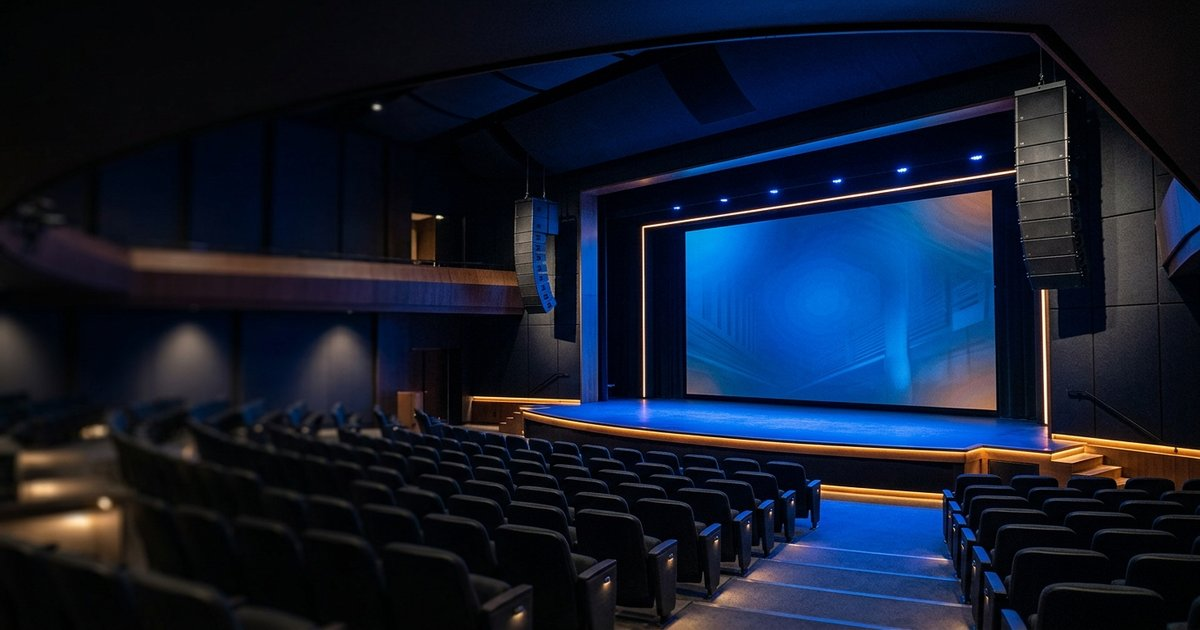
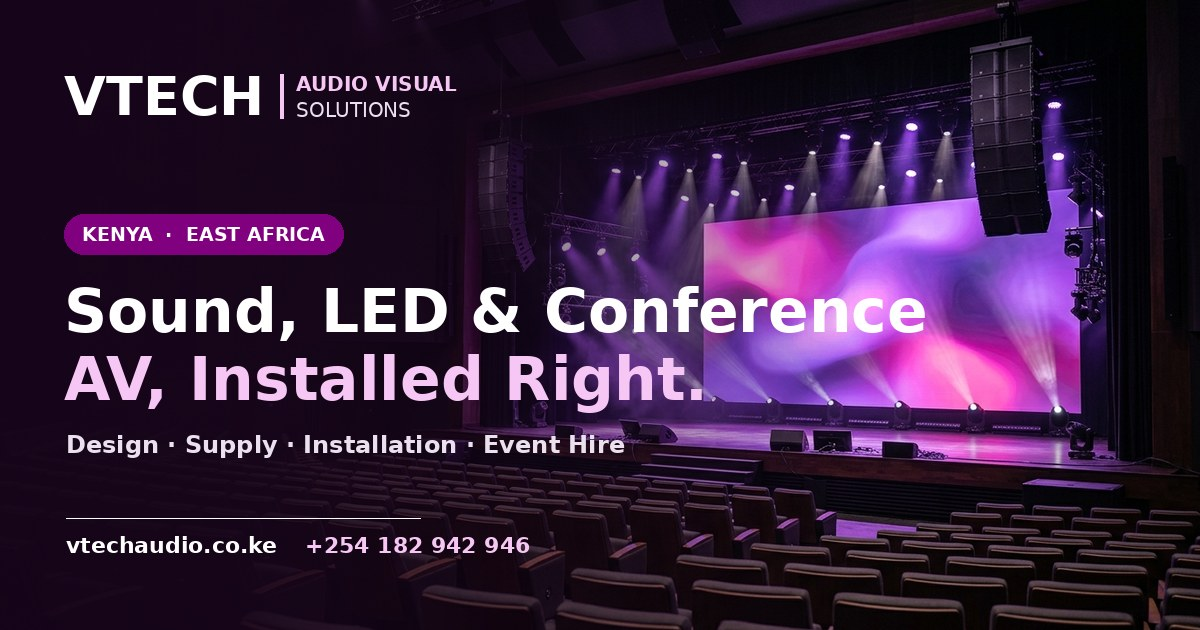
v5.55.0: Site-wide QA fixes, new mobile bottom bar, floating WhatsApp, new social share image
QA fixes (from the live desktop walkthrough)
- Desktop header: logo no longer collides with the menu and the phone block no longer covers "Contact". Menu centres between logo and actions; "Call or WhatsApp" block only from 1440px; tighter spacing 901-1279px; CTA button hidden 901-1060px.
- Services archive was cut off at 10 items, hiding Professional Sound Systems. Services, Industries and Hire Packages archives now list every item (Projects up to 60).
- Projects filter chips showed raw slugs ("conference-centres"); now readable labels ("Conference Centres").
- Footer blurb: removes stray space before commas ("acoustics , installed").

Mobile
- Bottom bar is now Home / Services / Call / Get a quote (current page highlighted); WhatsApp removed from the bar.
- WhatsApp is a round floating button on the right, above the bar; floating call button hidden on phones (Call is in the bar).

Social sharing
- New 1200x630 share image (assets/img/og-default.jpg + .webp): stage with LED wall and line arrays, VTECH wordmark, "Sound, LED & Conference AV, Installed Right.", services line, website and phone.

Bump theme to 5.55.0 (build v5.55-2026-10-13). PHP lint clean; app.js unchanged; CSS braces balanced.

diff --git a/vtech-av/assets/css/main.css b/vtech-av/assets/css/main.css
@@ -1253,3 +1253,30 @@ body.nav-open .action-bar,body.nav-open .float-btn{display:none}
 @media(max-width:820px){.eh-guide,.blog-card--lead{grid-template-columns:1fr;gap:1.25rem}.eh-guide--flip .eh-guide__media{order:0}.blog-card--lead .blog-card__media{min-height:220px}.blog-card--lead .blog-card__body{padding:1.4rem}}
 @media(max-width:600px){.eh-cats__grid,.blog-grid{grid-template-columns:1fr}.eh-hero,.faq-hero{padding:1.75rem 0 2.75rem}.eh-hero .svx-hero__cta .btn{flex:1 1 100%;text-align:center;justify-content:center}.faq-chips{flex-wrap:nowrap;overflow-x:auto;justify-content:flex-start;margin-inline:-1rem;padding:0 1rem .3rem;scrollbar-width:none}.faq-chips .hp-picker__btn{white-space:nowrap;flex:none}.eh-band__box{padding:1.5rem}.eh-band__box .btn{width:100%;justify-content:center}}
 @media(prefers-reduced-motion:reduce){.eh-cat,.eh-cat__media img,.blog-card,.blog-card__media img{transition:none}}
+
+/* v5.55.0 QA fixes: desktop header spacing, mobile bottom bar + floating WhatsApp */
+@media(min-width:901px){
+  .site-header__inner{display:flex;align-items:center;justify-content:space-between;gap:1.5rem}
+  .site-header__brand{flex:0 0 auto;margin-right:.5rem}
+  .site-nav{flex:1 1 auto;min-width:0;display:flex;justify-content:center}
+  .site-nav__menu{flex-wrap:nowrap;justify-content:center}
+  .site-header__actions{flex:0 0 auto;display:flex;align-items:center}
+  .header-call{display:none}
+}
+@media(min-width:1440px){.header-call{display:inline-flex}}
+@media(min-width:901px) and (max-width:1279px){
+  .site-header__inner{gap:.9rem}
+  .site-nav__menu>li>a{padding:.45rem .5rem;font-size:.84rem}
+  .site-header__brand img,.site-header__brand .custom-logo{height:38px;max-width:150px}
+  .site-header__actions .btn{padding:.55rem .95rem;font-size:.82rem;min-height:42px}
+}
+@media(min-width:901px) and (max-width:1060px){.site-header__actions .btn{display:none}}
+@media(max-width:768px){
+  .action-bar{grid-template-columns:repeat(4,1fr);grid-auto-flow:row}
+  .action-bar__btn.is-current{color:var(--c-primary);background:var(--c-primary-tint)}
+  .float-btn--call{display:none}
+  .float-btn.float-btn--wa{display:inline-flex;right:.9rem;bottom:calc(5.1rem + env(safe-area-inset-bottom));width:54px;height:54px;padding:0;justify-content:center;border-radius:50%;box-shadow:0 10px 26px rgba(18,140,74,.45);z-index:160}
+  .float-btn.float-btn--wa span{display:none}
+  .float-btn.float-btn--wa svg{width:28px;height:28px}
+  body.nav-open .float-btn.float-btn--wa{display:none}
+}

diff --git a/vtech-av/style.css b/vtech-av/style.css
@@ -4,7 +4,7 @@ Theme URI: https://vtechaudio.co.ke/
 Author: Pimofy Digital
 Author URI: https://pimofydigital.com/
 Description: Premium custom WordPress theme for VTECH Audio Visual Solutions — Kenya's leading professional audio-visual, sound, lighting, LED, acoustic and conferencing integrator. Native Gutenberg, block-based, SEO-first, Core Web Vitals optimized. No page builders.
-Version: 5.54.0
+Version: 5.55.0
 Requires at least: 6.4
 Tested up to: 6.7
 Requires PHP: 8.0

diff --git a/vtech-av/footer.php b/vtech-av/footer.php
@@ -14,7 +14,7 @@ if ( ! defined( 'ABSPATH' ) ) { exit; }
 		<!-- Col 1: Brand + NAP -->
 		<div class="site-footer__col site-footer__brand">
 			<a class="brand-text brand-text--light" href="<?php echo esc_url( home_url( '/' ) ); ?>">VTECH <span>Audio Visual</span></a>
-			<p><?php echo esc_html( vtech_opt( 'vtech_footer_blurb', "Kenya's premium audio-visual integrator. Sound, LED, lighting, conference & PA systems, acoustics and digital signage designed, installed and supported across Kenya and East Africa." ) ); ?></p>
+			<p><?php echo esc_html( preg_replace( '/\s+,/', ',', (string) vtech_opt( 'vtech_footer_blurb', "Kenya's premium audio-visual integrator. Sound, LED, lighting, conference & PA systems, acoustics and digital signage designed, installed and supported across Kenya and East Africa." ) ) ); ?></p>
 			<address>
 				<strong><?php echo esc_html( vtech_contact( 'company' ) ); ?></strong><br>
 				<?php echo esc_html( vtech_contact( 'address' ) ); ?><br>
@@ -112,12 +112,13 @@ if ( vtech_opt( 'vtech_show_sticky_cta', true ) ) : ?>
 	</div>
 <?php endif; ?>
 
-<nav class="action-bar" aria-label="<?php esc_attr_e( 'Quick contact', 'vtech-av' ); ?>">
+<nav class="action-bar" aria-label="<?php esc_attr_e( 'Quick links', 'vtech-av' ); ?>">
+	<a class="action-bar__btn<?php echo is_front_page() ? ' is-current' : ''; ?>" href="<?php echo esc_url( home_url( '/' ) ); ?>"<?php echo is_front_page() ? ' aria-current="page"' : ''; ?>><svg viewBox="0 0 24 24" aria-hidden="true"><path d="M12 3 2 11.5h3V21h5.5v-6h3v6H19v-9.5h3z"/></svg><span><?php esc_html_e( 'Home', 'vtech-av' ); ?></span></a>
+	<a class="action-bar__btn<?php echo ( is_post_type_archive( 'service' ) || is_singular( 'service' ) ) ? ' is-current' : ''; ?>" href="<?php echo esc_url( home_url( '/services/' ) ); ?>"><svg viewBox="0 0 24 24" aria-hidden="true"><path d="M4 4h7v7H4zm9 0h7v7h-7zM4 13h7v7H4zm9 0h7v7h-7z"/></svg><span><?php esc_html_e( 'Services', 'vtech-av' ); ?></span></a>
 	<?php if ( $show_call ) : ?>
 		<a class="action-bar__btn" href="tel:<?php echo esc_attr( vtech_contact_tel() ); ?>"><?php echo $ico_call; // phpcs:ignore ?><span><?php esc_html_e( 'Call', 'vtech-av' ); ?></span></a>
-	<?php endif; ?>
-	<?php if ( $show_wa ) : ?>
-		<a class="action-bar__btn action-bar__btn--wa" href="<?php echo esc_url( $wa_url ); ?>" target="_blank" rel="noopener"><?php echo $ico_wa; // phpcs:ignore ?><span><?php esc_html_e( 'WhatsApp', 'vtech-av' ); ?></span></a>
+	<?php else : ?>
+		<a class="action-bar__btn" href="<?php echo esc_url( home_url( '/hire-packages/' ) ); ?>"><svg viewBox="0 0 24 24" aria-hidden="true"><path d="M12 3a4 4 0 0 0-4 4v4a4 4 0 0 0 8 0V7a4 4 0 0 0-4-4zm7 8h-2a5 5 0 0 1-10 0H5a7 7 0 0 0 6 6.9V21h2v-3.1A7 7 0 0 0 19 11z"/></svg><span><?php esc_html_e( 'Hire', 'vtech-av' ); ?></span></a>
 	<?php endif; ?>
 	<a class="action-bar__btn action-bar__btn--primary" href="<?php echo esc_url( home_url( '/book-a-consultation/' ) ); ?>"><?php echo $ico_quote; // phpcs:ignore ?><span><?php esc_html_e( 'Get a quote', 'vtech-av' ); ?></span></a>
 </nav>

diff --git a/vtech-av/archive-project.php b/vtech-av/archive-project.php
@@ -19,7 +19,7 @@ get_header(); ?>
 	<div class="filters" data-filter aria-label="<?php esc_attr_e( 'Filter projects', 'vtech-av' ); ?>">
 		<button class="chip is-active" data-filter-value="*"><?php esc_html_e( 'All', 'vtech-av' ); ?></button>
 		<?php foreach ( get_terms( array( 'taxonomy' => 'industry', 'hide_empty' => true ) ) as $t ) : ?>
-			<button class="chip" data-filter-value="<?php echo esc_attr( $t->slug ); ?>"><?php echo esc_html( $t->name ); ?></button>
+			<button class="chip" data-filter-value="<?php echo esc_attr( $t->slug ); ?>"><?php echo esc_html( ( $t->name === $t->slug || preg_match( '/^[a-z0-9-]+$/', $t->name ) ) ? ucwords( str_replace( '-', ' ', $t->name ) ) : $t->name ); ?></button>
 		<?php endforeach; ?>
 	</div>
 

diff --git a/vtech-av/inc/seo-pages.php b/vtech-av/inc/seo-pages.php
@@ -315,3 +315,13 @@ add_action( 'template_redirect', function () {
 		exit;
 	}
 }, 1 );
+
+/* v5.55.0: archives list every item (Services was cut off at 10, hiding Professional Sound Systems). */
+add_action( 'pre_get_posts', function ( $q ) {
+	if ( is_admin() || !$q->is_main_query() ) { return; }
+	if ( $q->is_post_type_archive( array( 'service', 'industry', 'hire_package' ) ) ) {
+		$q->set( 'posts_per_page', -1 );
+	} elseif ( $q->is_post_type_archive( 'project' ) ) {
+		$q->set( 'posts_per_page', 60 );
+	}
+}, 20 ); // vtech_archive_show_all

diff --git a/vtech-av/functions.php b/vtech-av/functions.php
@@ -7,8 +7,8 @@
 
 if ( ! defined( 'ABSPATH' ) ) { exit; }
 
-define( 'VTECH_VERSION', '5.54.0' );
-define( 'VTECH_BUILD', 'v5.47-2026-10-13' );
+define( 'VTECH_VERSION', '5.55.0' );
+define( 'VTECH_BUILD', 'v5.55-2026-10-13' );
 define( 'VTECH_DIR', get_template_directory() );
 define( 'VTECH_URI', get_template_directory_uri() );
 
